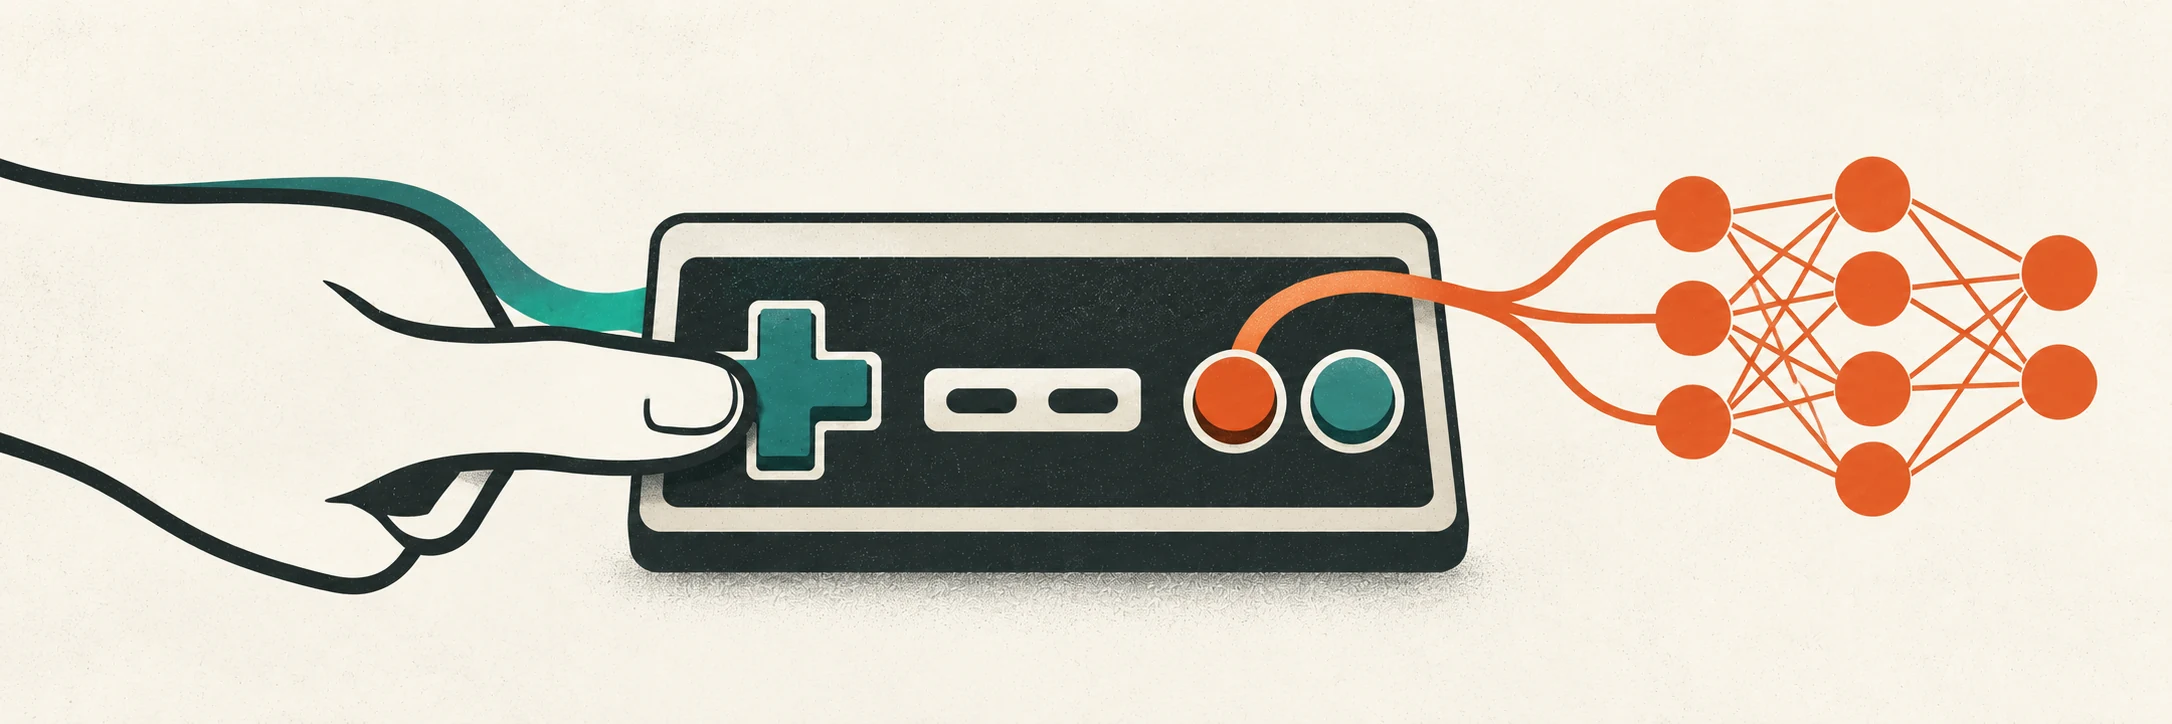
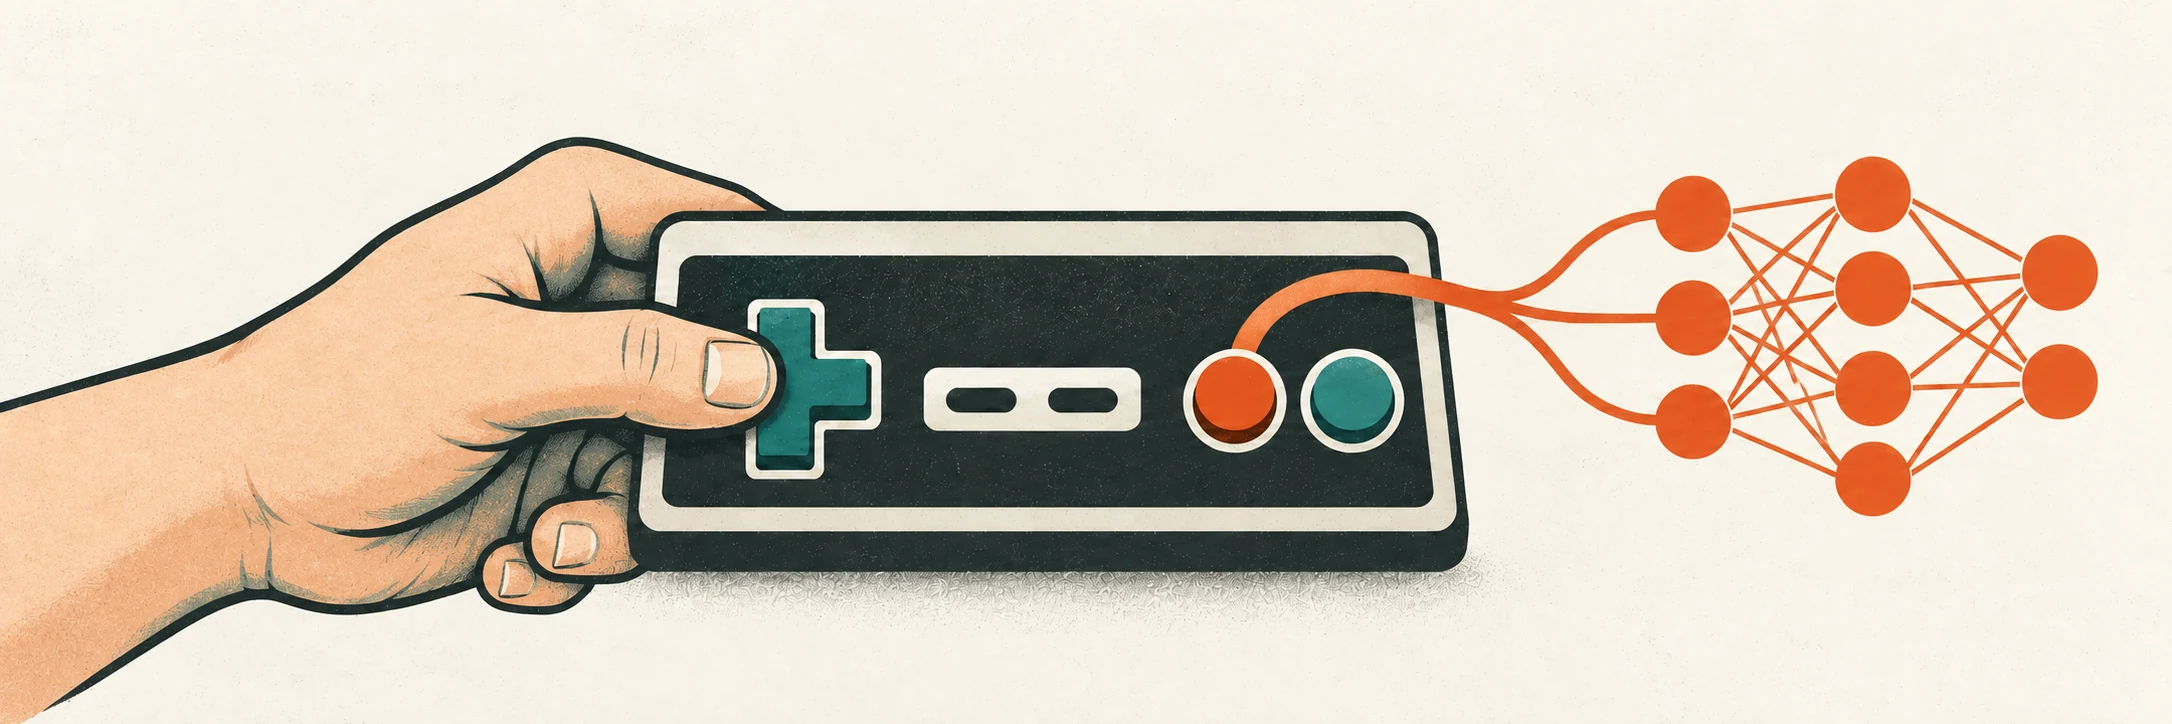
Redraw the README hero hand with a natural controller grip

diff --git a/docs/images/NOTICE.md b/docs/images/NOTICE.md
@@ -4,7 +4,8 @@ These assets contain no commercial-game imagery or game data.
 
 - **hero.webp** — original editorial controller illustration generated with
   OpenAI's built-in image-generation tool. Three directions were compared and
-  the editorial version was refined. Illustrative, not a screenshot or a diagram
+  the editorial version was refined, including a hand-anatomy correction.
+  Illustrative, not a screenshot or a diagram
   of the exact network. Provided under the project's MIT terms.
 - **desktop-gallery.webp** — actual native AgentEmu gallery capture on macOS.
 - **mobile-shared.webp** — actual browser UI at a 390 × 844 viewport. This is a
